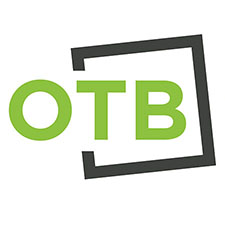
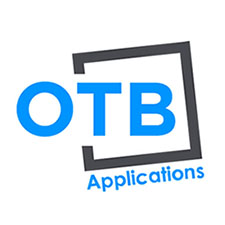
refactor: update projects, customers, dates

Changed region(s): [[0.0311, 0.1244, 0.9644, 0.8711]]

diff --git a/index.html b/index.html
@@ -140,71 +140,47 @@
             </div>
             <div class="row">
                 <div class="col-sm-4">
-                    <div class="partners-member" onclick="location.href='http://www.bl.ch'">
+                    <div class="partners-member" onclick="location.href='https://www.bl.ch'">
                         <img src="img/customers/baselland.jpg" class="img-responsive img-circle" alt="">
                         <h4>Kanton Basel-Landschaft</h4>
                         <p class="text-muted">Kunde unseres Produkts SafeLog<br />im sozialen Bereich.</p>
                     </div>
                 </div>
                 <div class="col-sm-4">
-                    <div class="partners-member" onclick="location.href='http://www.ag.ch'">
+                    <div class="partners-member" onclick="location.href='https://www.ag.ch'">
                         <img src="img/customers/aargau.jpg" class="img-responsive img-circle" alt="">
                         <h4>Kanton Aargau</h4>
                         <p class="text-muted">Kunde unseres Produkts SafeLog<br />im sozialen Bereich.</p>
                     </div>
                 </div>
                 <div class="col-sm-4">
-                    <div class="partners-member" onclick="location.href='http://www.unibas.ch'">
+                    <div class="partners-member" onclick="location.href='https://www.unibas.ch'">
                         <img src="img/customers/unibasel.jpg" class="img-responsive img-circle" alt="">
                         <h4>Universität Basel</h4>
                         <p class="text-muted">Kunde unseres Produkts SafeLog<br />für die Projektverwaltung.</p>
                     </div>
                 </div>
                 <div class="col-sm-4">
-                    <div class="partners-member" onclick="location.href='http://www.fcb.ch'">
+                    <div class="partners-member" onclick="location.href='https://www.fcb.ch'">
                         <img src="img/customers/fcb.jpg" class="img-responsive img-circle" alt="">
                         <h4>FC Basel 1893</h4>
                         <p class="text-muted">Werbekunde in der Rotblau App.</p>
                     </div>
                 </div>
                 <div class="col-sm-4">
-                    <div class="partners-member" onclick="location.href='http://www.bzbasel.ch'">
+                    <div class="partners-member" onclick="location.href='https://www.bzbasel.ch'">
                         <img src="img/customers/bz.jpg" class="img-responsive img-circle" alt="">
                         <h4>bz Basel</h4>
                         <p class="text-muted">Kunde Online-Services<br />im Rahmen der Rotblau-App.</p>
                     </div>
                 </div>
                 <div class="col-sm-4">
-                    <div class="partners-member" onclick="location.href='http://www.tageswoche.ch'">
-                        <img src="img/customers/tageswoche.jpg" class="img-responsive img-circle" alt="">
-                        <h4>TagesWoche</h4>
-                        <p class="text-muted">Kunde Online-Services<br />im Rahmen der Rotblau-App.</p>
-                    </div>
-                </div>
-                <!--
-                <div class="col-sm-4">
-                    <div class="partners-member" onclick="location.href='http://www.st-jakob-park.com'">
+                    <div class="partners-member" onclick="location.href='https://www.st-jakob-park.com'">
                         <img src="img/customers/shoppingcenter.jpg" class="img-responsive img-circle" alt="">
                         <h4>Shopping Center</h4>
                         <p class="text-muted">Eines der grössten<br />Shopping Center der Schweiz.</p>
                     </div>
                 </div>
-				<!--
-				<div class="col-sm-4">
-                    <div class="partners-member" onclick="location.href='http://www.orpheus-reisen.ch'">
-                        <img src="img/customers/orpheus.jpg" class="img-responsive img-circle" alt="">
-                        <h4>Orpheus-Reisen</h4>
-                        <p class="text-muted">Kulturreisen ab Basel mit Augenweide,<br />Ohrenschmaus und Gaumenfreude.</p>
-                    </div>
-                </div>
-                <div class="col-sm-4">
-                    <div class="partners-member" onclick="location.href='http://www.speisehaus.ch'">
-                        <img src="img/customers/speisehaus.jpg" class="img-responsive img-circle" alt="">
-                        <h4>Vital Speisehaus</h4>
-                        <p class="text-muted">Restaurant, Café und mehr<br />direkt beim Goetheanum in Dornach.</p>
-                    </div>
-                </div>
-				-->
             </div>
         </div>
     </section>
@@ -226,43 +202,20 @@
                         <p class="text-muted">Die Webapplikation SafeLog erlaubt effizientes Arbeiten im Sozialbereich (Case Management, Kitas, u. a.).</p>
                     </div>
                 </div>
-				<div class="col-md-4 col-sm-6 products-item" onclick="location.href='https://www.rotblauapp.ch/apps/'">
-                    <img src="img/products/1.jpg" class="img-responsive" alt="">
+                <div class="col-md-4 col-sm-6 products-item" onclick="location.href='http://www.wegweiser.online'">
+                    <img src="img/products/wegweiser.jpg" class="img-responsive" alt="">
+                    <div class="products-caption">
+                        <h4>Wegweiser Online</h4>
+                        <p class="text-muted">Die Plattform Wegweiser ermöglicht die Anmeldung für Brückenangebote in Schulen des Kanton Aargau.</p>
+                    </div>
+                </div>
+				<div class="col-md-4 col-sm-6 products-item" onclick="location.href='https://rotblau.app/imprint'">
+                    <img src="img/products/app.jpg" class="img-responsive" alt="">
                     <div class="products-caption">
                         <h4>Rotblau-App</h4>
                         <p class="text-muted">Die FC-Basel-Fan-App Rotblau ist mit über 100'000 Downloads eine der beliebtesten Apps der Region Basel.</p>
                     </div>
                 </div>
-                <div class="col-md-4 col-sm-6 products-item" onclick="location.href='https://www.rotblauapp.ch'">
-                    <img src="img/products/2.jpg" class="img-responsive" alt="">
-                    <div class="products-caption">
-                        <h4>Rotblau-Website</h4>
-                        <p class="text-muted">Mit zehntausenden Besuchen monatlich ist die Rotblau-Website eine feste Grösse im FCB-Universum.</p>
-                    </div>
-                </div>
-				<!--
-                <div class="col-md-4 col-sm-6 products-item" onclick="location.href='http://www.anton-webern.ch'">
-                    <img src="img/products/3.jpg" class="img-responsive" alt="">
-                    <div class="products-caption">
-                        <h4>Anton-Webern</h4>
-                        <p class="text-muted">Für die Musikwissenschaften der Universität Basel entwickelten wir eine Editions-Plattform.</p>
-                    </div>
-                </div>
-                <div class="col-md-4 col-sm-6 products-item" onclick="location.href='http://www.orpheus-reisen.ch'">
-                    <img src="img/products/4.jpg" class="img-responsive" alt="">
-                    <div class="products-caption">
-                        <h4>Orpheus-Reisen</h4>
-                        <p class="text-muted">Seit vielen Jahren betreuen wir die Administration der Kulturreisen von Orpheus-Reisen.</p>
-                    </div>
-                </div>
-                <div class="col-md-4 col-sm-6 products-item" onclick="location.href='http://www.orgel-basel.ch'">
-                    <img src="img/products/5.jpg" class="img-responsive" alt="">
-                    <div class="products-caption">
-                        <h4>Orgel-Basel</h4>
-                        <p class="text-muted">Die Konzertveranstaltenden OrganistInnen Basel betreiben dank uns seit über zehn Jahren ein Infoportal.</p>
-                    </div>
-                </div>
-				-->
             </div>
         </div>
     </section>
@@ -280,22 +233,22 @@
             <div class="row">
                 <div class="col-sm-4">
                     <div class="partners-member" onclick="location.href='http://www.nexirius.com'">
-                        <img src="img/partners/1.jpg" class="img-responsive img-circle" alt="">
+                        <img src="img/partners/nexirius.jpg" class="img-responsive img-circle" alt="">
                         <h4>Nexirius</h4>
                         <p class="text-muted">Software-Firma aus Basel mit<br />über 25 Jahren Erfahrung.</p>
                     </div>
                 </div>
                 <div class="col-sm-4">
                     <div class="partners-member" onclick="location.href='http://www.bzbasel.ch'">
-                        <img src="img/customers/bz.jpg" class="img-responsive img-circle" alt="">
+                        <img src="img/partners/bz.jpg" class="img-responsive img-circle" alt="">
                         <h4>bz Basel</h4>
                         <p class="text-muted">Kooperation bei Live-Diensten<br />der Fussball-App Rotblau.</p>
                     </div>
                 </div>
                 <div class="col-sm-4">
-                    <div class="partners-member" onclick="location.href='http://www.otb-consulting.ch/'">
+                    <div class="partners-member" onclick="location.href='http://www.otb-applications.ch/'">
                         <img src="img/partners/otb.jpg" class="img-responsive img-circle" alt="">
-                        <h4>OTB Consulting</h4>
+                        <h4>OTB Applications</h4>
                         <p class="text-muted">Distribution von SafeLog<br />für Kitas, Schulen, Heimen usw.</p>
                     </div>
                 </div>
@@ -308,7 +261,7 @@
         <div class="container">
             <div class="row">
                 <div class="col-md-12">
-                    <span class="copyright text-center">Copyright &copy; AppVision GmbH 2018</span>
+                    <span class="copyright text-center">Copyright &copy; AppVision GmbH 2020</span>
                 </div>
             </div>
         </div>
